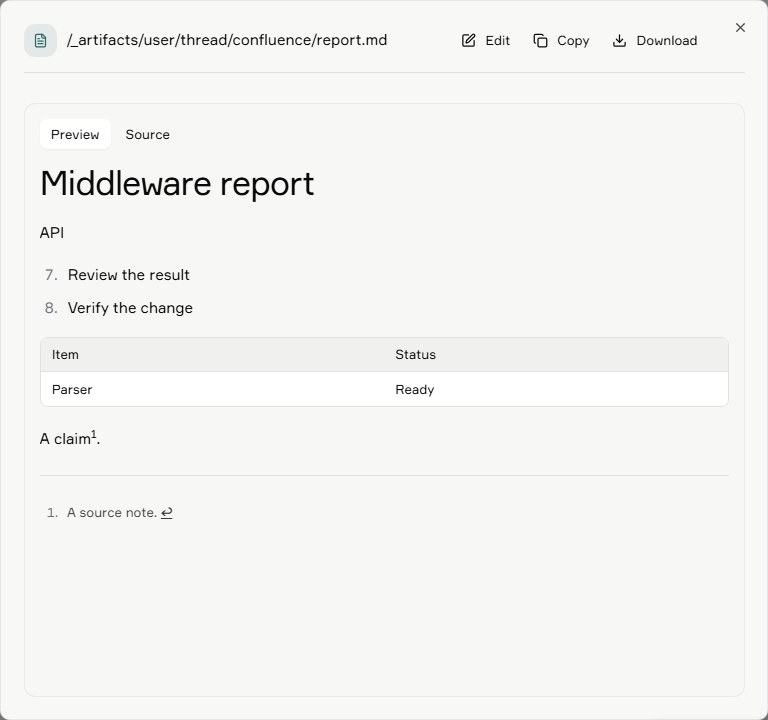
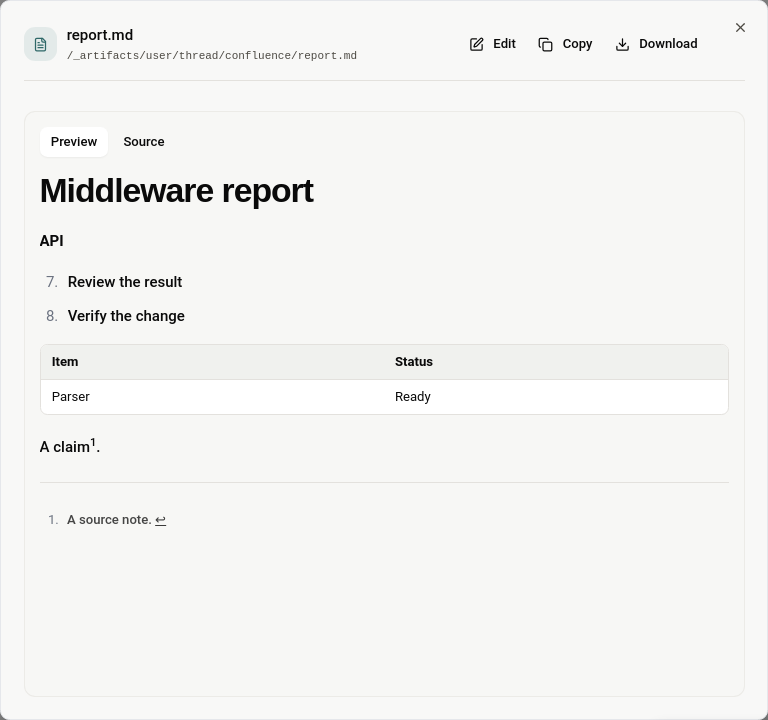
fix(files): show the full file name and stored path in the preview title

diff --git a/src/app/components/FileViewDialog.tsx b/src/app/components/FileViewDialog.tsx
@@ -27,7 +27,7 @@ import { FileContentView } from "@/app/components/FileContentView";
 import { ImagePreview } from "@/app/components/ImagePreview";
 import type { FileItem } from "@/app/types/types";
 import { cn } from "@/lib/utils";
-import { imageMimeForPath } from "@/lib/uploads";
+import { attachmentDisplayName, imageMimeForPath } from "@/lib/uploads";
 import { fileBlob, saveBlob } from "@/lib/file-downloads";
 import { safeSourcePageUrl, SOURCE_IMAGE_LABELS } from "@/lib/source-images";
 
@@ -73,7 +73,12 @@ function FileViewDialogSession({
   const isBinary = file?.encoding === "base64";
   const sourceImage = file?.sourceImage;
   const displayName =
-    sourceImage?.filename || file?.filename || file?.path || "New File";
+    sourceImage?.filename ||
+    file?.filename ||
+    (file?.path ? attachmentDisplayName(file.path) : "New File");
+  // The stored path carries the directory and storage key; show it whenever
+  // the readable name above it hides part of it.
+  const fullPath = file?.path && file.path !== displayName ? file.path : null;
   const sourcePageUrl = sourceImage
     ? safeSourcePageUrl(sourceImage.source_page_url)
     : null;
@@ -196,9 +201,20 @@ function FileViewDialogSession({
               />
             ) : (
               <div className="min-w-0">
-                <span className="block overflow-hidden text-ellipsis whitespace-nowrap text-base font-medium text-primary">
+                <span
+                  className="block break-words text-base font-medium text-primary [overflow-wrap:anywhere]"
+                  data-testid="file-view-title"
+                >
                   {displayName}
                 </span>
+                {fullPath && (
+                  <span
+                    className="mt-0.5 block break-all font-mono text-[11px] text-muted-foreground"
+                    data-testid="file-view-path"
+                  >
+                    {fullPath}
+                  </span>
+                )}
                 {sourceImage && (
                   <span className="mt-1 flex flex-wrap items-center gap-1.5 text-[10px] text-muted-foreground">
                     <span className="bg-primary/8 rounded-full px-1.5 py-0.5 font-semibold text-[var(--color-primary)]">
